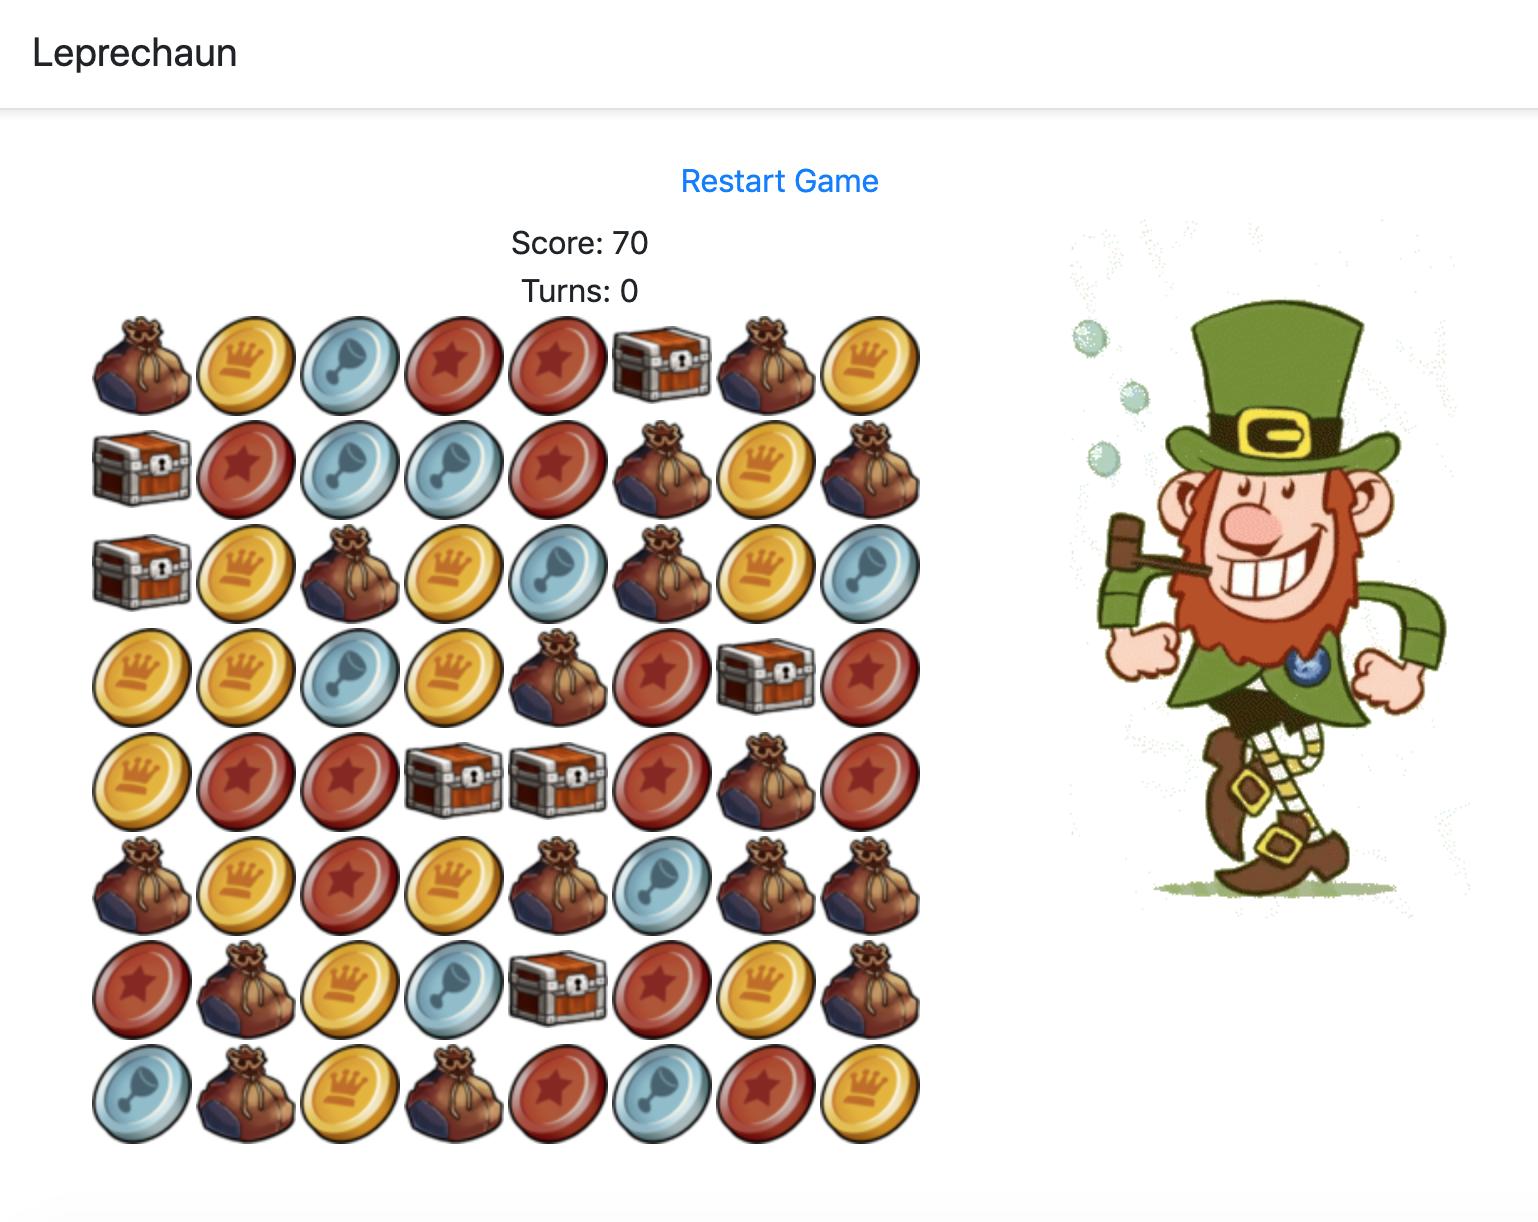
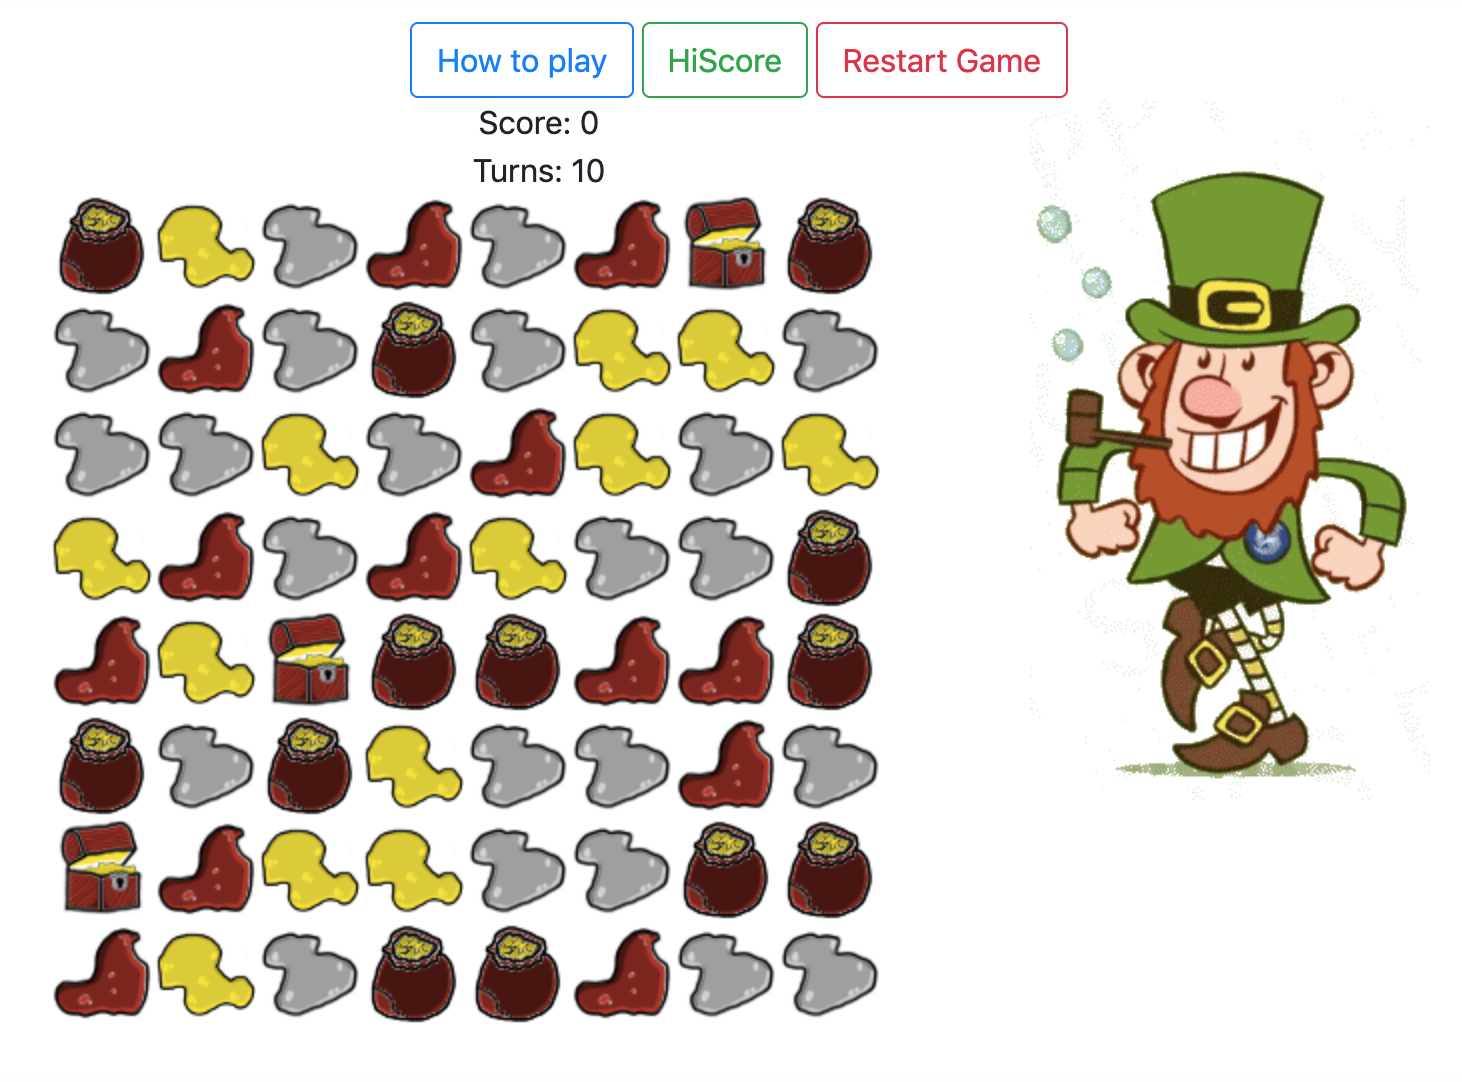
0.5.5 - bugfix blink images, update README and check if we should to use ws or wss to connect from browser

diff --git a/priv/index.html b/priv/index.html
@@ -30,6 +30,13 @@
 
       gtag('config', 'UA-6954758-10');
     // --></script>
+    <script async src="//pagead2.googlesyndication.com/pagead/js/adsbygoogle.js"></script>
+    <script>
+         (adsbygoogle = window.adsbygoogle || []).push({
+              google_ad_client: "ca-pub-2705619039446049",
+              enable_page_level_ads: true
+         });
+    </script>
     <!-- Go to www.addthis.com/dashboard to customize your tools -->
     <script type="text/javascript" src="//s7.addthis.com/js/300/addthis_widget.js#pubid=ra-5cad355f0a4ac15b"></script>
 </head>
@@ -107,35 +114,35 @@
               <tbody>
                 <tr>
                   <td><img src="/img/cell_1.png"></td>
-                  <td>1</td>
+                  <td><img src="/img/cell_1_blink.png" alt="1"></td>
                 </tr>
                 <tr>
                   <td><img src="/img/cell_2.png"></td>
-                  <td>2</td>
+                  <td><img src="/img/cell_2_blink.png" alt="2"></td>
                 </tr>
                 <tr>
                   <td><img src="/img/cell_3.png"></td>
-                  <td>3</td>
+                  <td><img src="/img/cell_3_blink.png" alt="3"></td>
                 </tr>
                 <tr>
                   <td><img src="/img/cell_4.png"></td>
-                  <td>4</td>
+                  <td><img src="/img/cell_4_blink.png" alt="4"></td>
                 </tr>
                 <tr>
                   <td><img src="/img/cell_5.png"></td>
-                  <td>5</td>
+                  <td><img src="/img/cell_5_blink.png" alt="5"></td>
                 </tr>
                 <tr>
                   <td><img src="/img/cell_6.png"></td>
-                  <td>6</td>
+                  <td><img src="/img/cell_6_blink.png" alt="6"></td>
                 </tr>
                 <tr>
                   <td><img src="/img/cell_7.png"></td>
-                  <td>7</td>
+                  <td><img src="/img/cell_7_blink.png" alt="7"></td>
                 </tr>
                 <tr>
                   <td><img src="/img/cell_8.png"></td>
-                  <td>8</td>
+                  <td><img src="/img/cell_8_blink.png" alt="8"></td>
                 </tr>
               </tbody>
             </table>

diff --git a/priv/app.js b/priv/app.js
@@ -110,7 +110,8 @@ function connect() {
     if (ws) {
         ws.close();
     }
-    ws = new WebSocket("ws://" + hostname + "/websession");
+    var schema = (location.href.split(":")[0] == "https") ? "wss" : "ws";
+    ws = new WebSocket(schema + "://" + hostname + "/websession");
     ws.onopen = function(){
         console.log("connected!");
         if (game_id) {

diff --git a/README.md b/README.md
@@ -16,6 +16,12 @@ It's easy to install. You only needs to have [Elixir](https://elixir-lang.org/in
 git clone git@github.com:altenwald/leprechaun.git
 ```
 
+Because we use [Ecto](https://hexdocs.pm/ecto/Ecto.html) and [Mnesia](https://en.wikipedia.org/wiki/Mnesia) to store the high scores you'll need to run these tasks before:
+
+```
+mix do ecto.create, ecto.migrate
+```
+
 Then you can see there are a new directory in that path called `leprechaun`. You can go inside using the terminal and write:
 
 ```
